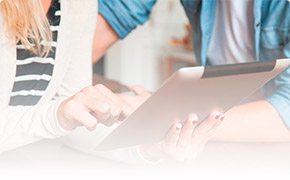
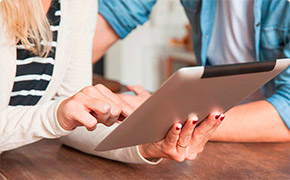
градиент

diff --git a/scss/style.scss b/scss/style.scss
@@ -476,6 +476,19 @@ main {
                     letter-spacing: 0.80px;
                     bottom: 0;
                     transform: translate(0, 30%);
+                    z-index: 3;
+                }
+                &::after {
+                    content: "";
+                    background-image: -moz-linear-gradient( -90deg, rgba(245,246,250,0) 0%, rgb(245,246,250) 100%);
+                    background-image: -webkit-linear-gradient( -90deg, rgba(245,246,250,0) 0%, rgb(245,246,250) 100%);
+                    background-image: -ms-linear-gradient( -90deg, rgba(245,246,250,0) 0%, rgb(245,246,250) 100%);
+                    position: absolute;
+                    top: 0;
+                    left: 0;
+                    z-index: 2;
+                    width: 100%;
+                    height: 100%;
                 }
             }
             .btn-link {

diff --git a/css/style.css b/css/style.css
@@ -463,6 +463,19 @@ main .opportunity-block .opportunity-item .opportunity-image h3 {
   letter-spacing: 0.8px;
   bottom: 0;
   transform: translate(0, 30%);
+  z-index: 3;
+}
+main .opportunity-block .opportunity-item .opportunity-image::after {
+  content: "";
+  background-image: -moz-linear-gradient(-90deg, rgba(245, 246, 250, 0) 0%, #f5f6fa 100%);
+  background-image: -webkit-linear-gradient(-90deg, rgba(245, 246, 250, 0) 0%, #f5f6fa 100%);
+  background-image: -ms-linear-gradient(-90deg, rgba(245, 246, 250, 0) 0%, #f5f6fa 100%);
+  position: absolute;
+  top: 0;
+  left: 0;
+  z-index: 2;
+  width: 100%;
+  height: 100%;
 }
 main .opportunity-block .opportunity-item .btn-link {
   text-align: center;
